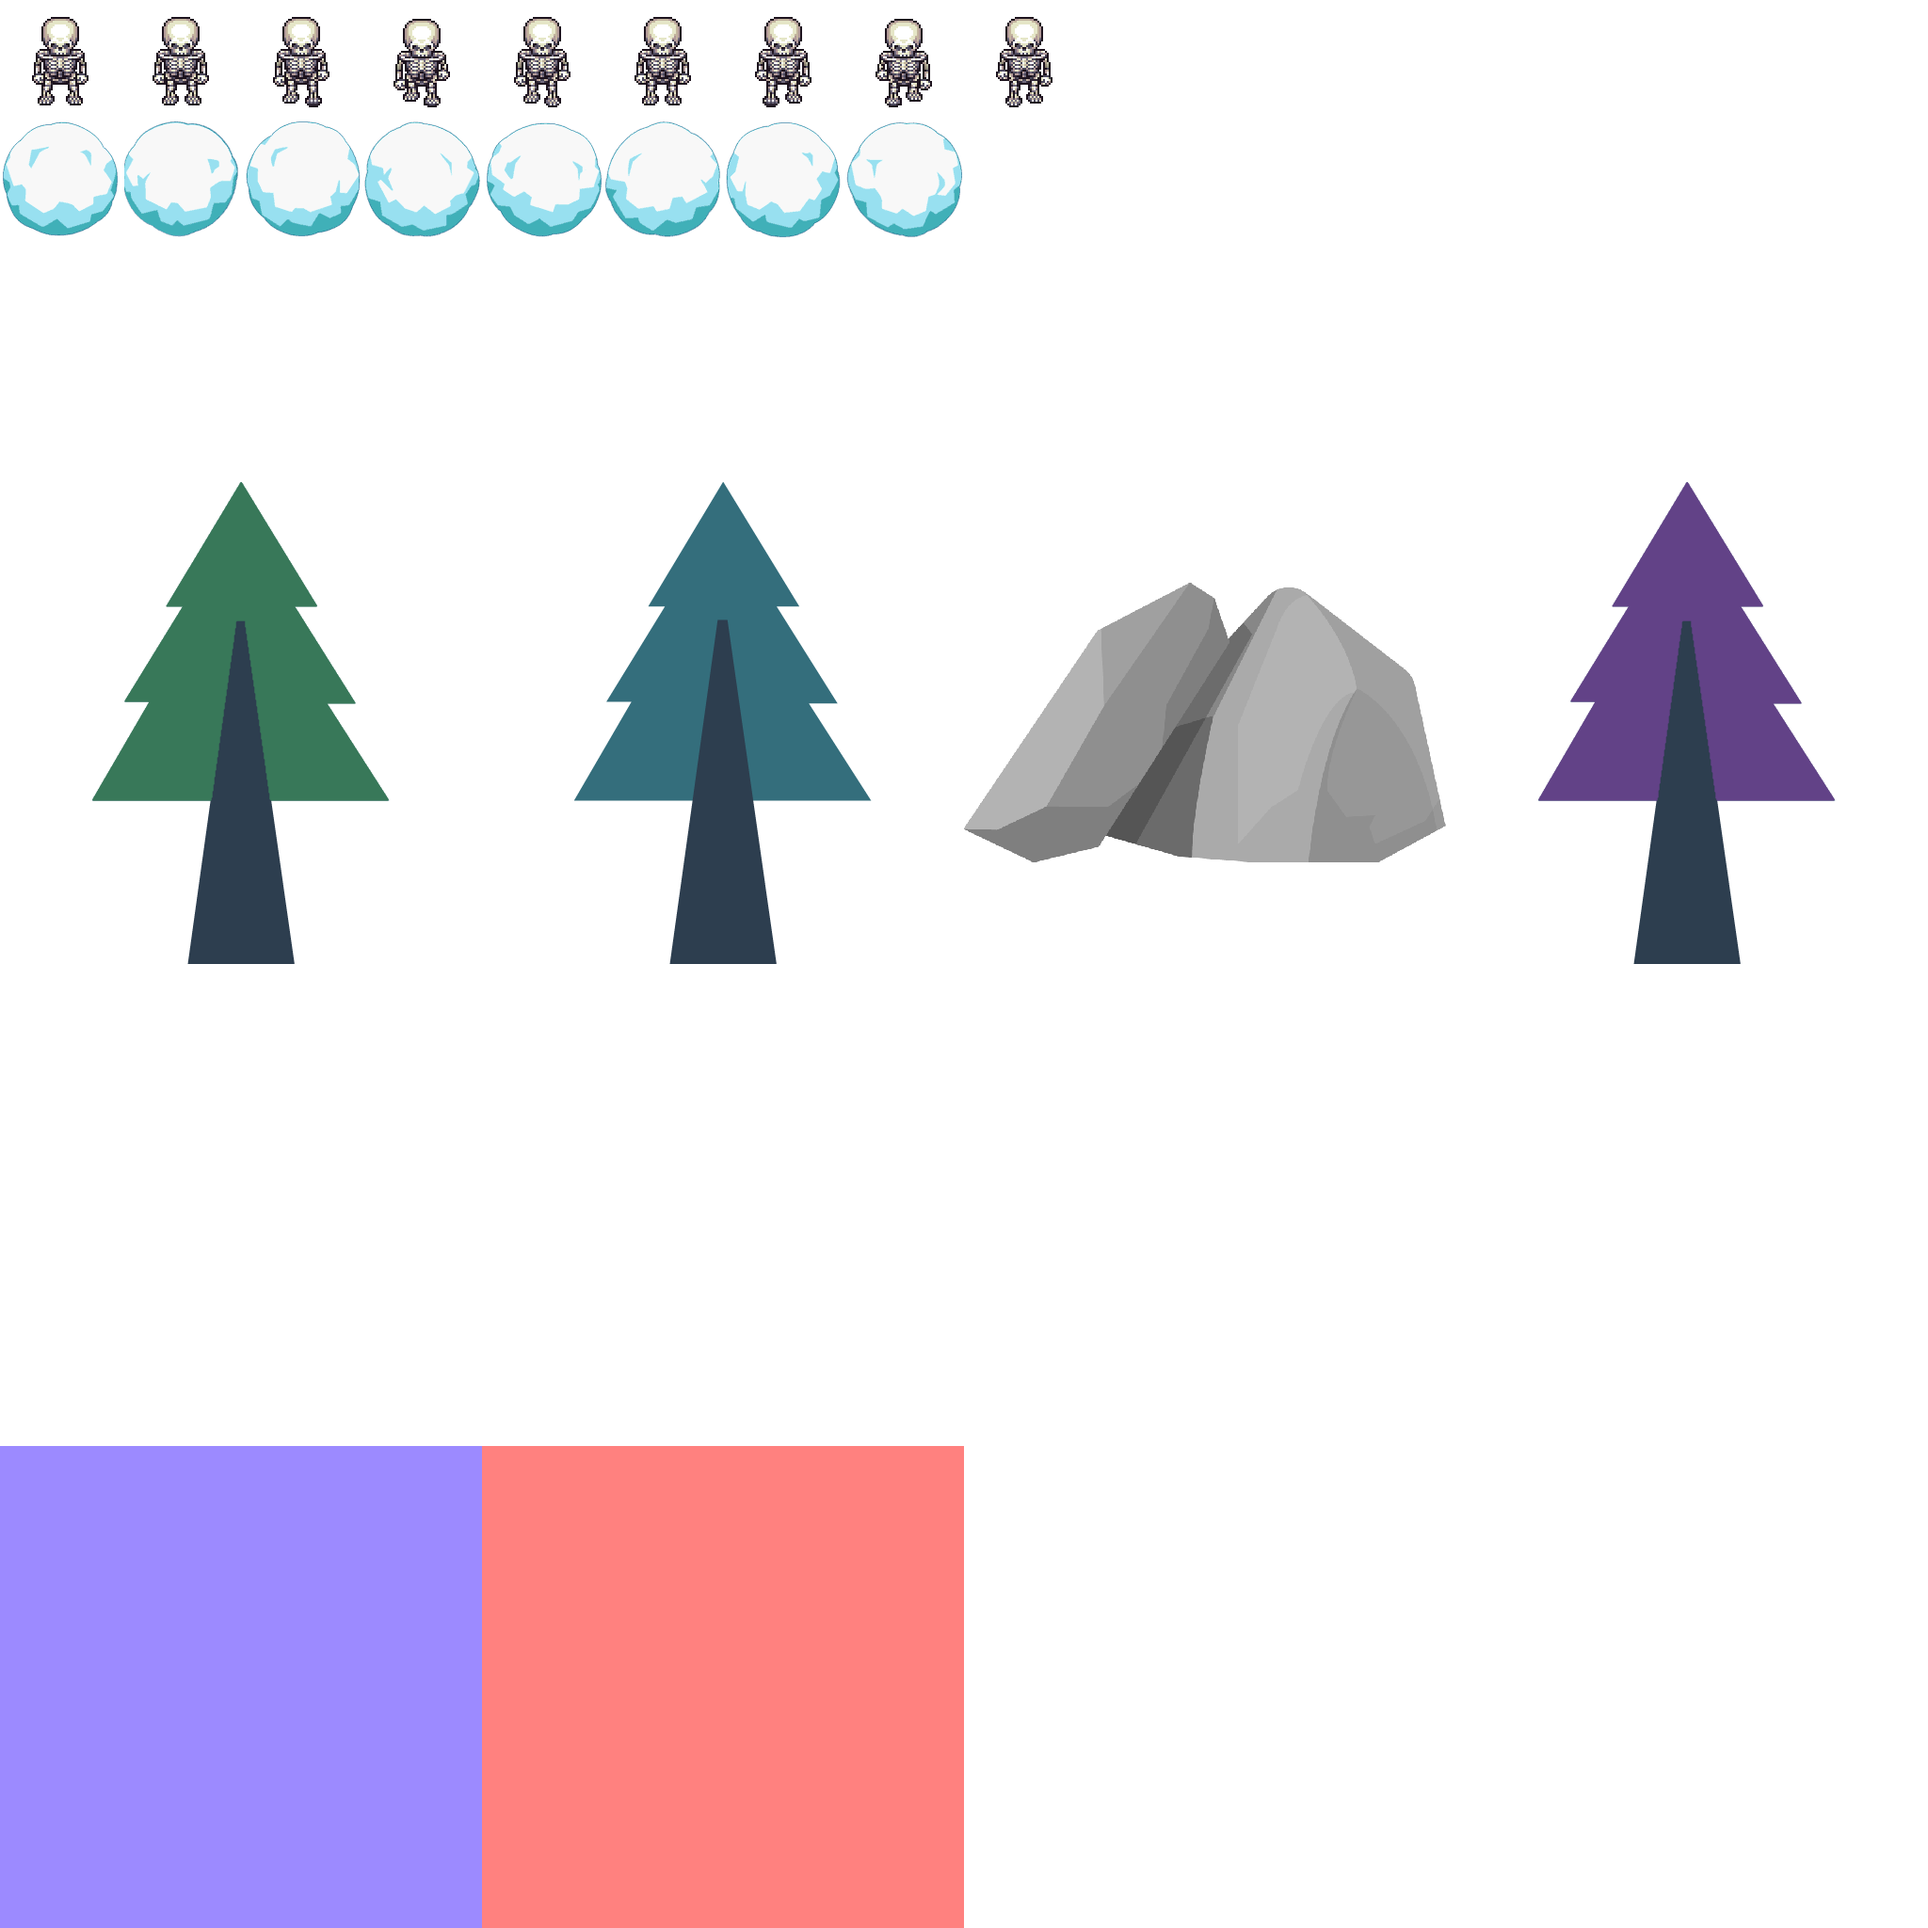
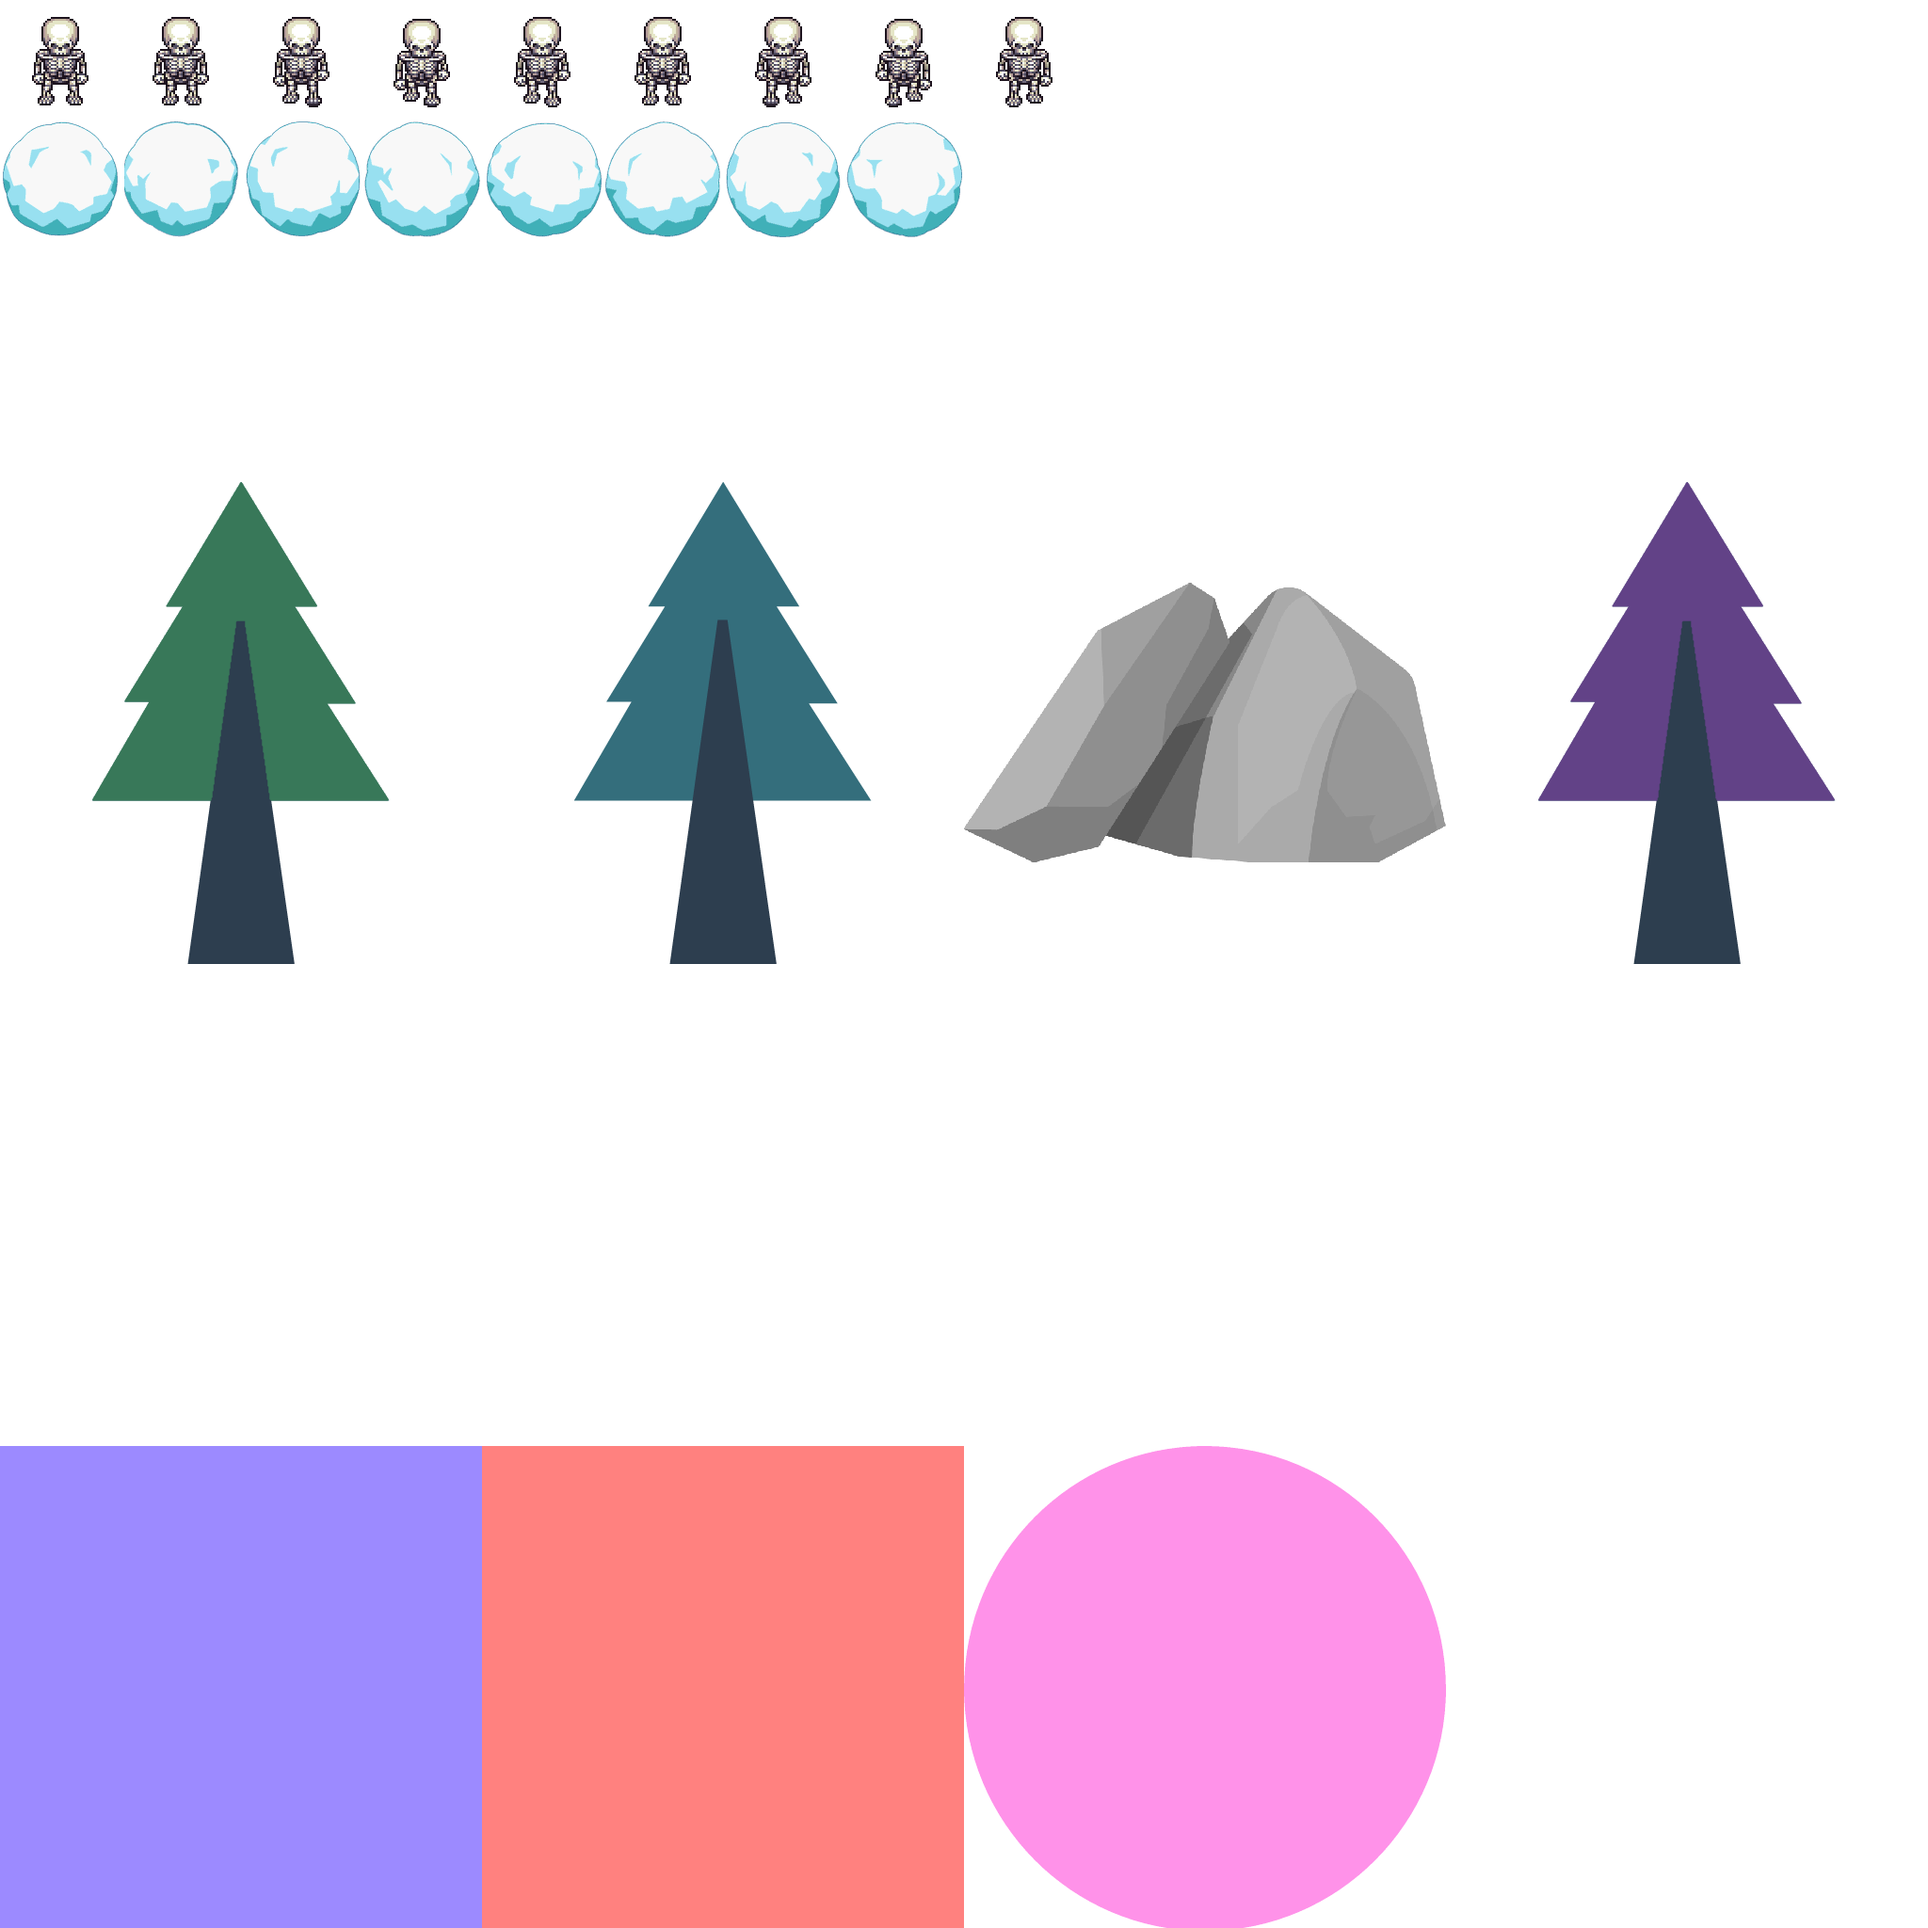
physics

Changed region(s): [[0.5, 0.75, 0.75, 1.0]]

diff --git a/TundraGame/Game/Game.h b/TundraGame/Game/Game.h
@@ -58,7 +58,7 @@ private:
             Obstacle obstacle;
             obstacle.Transform.position.x = Game::g_MapWidth * 0.5f * localPosition.x;
             obstacle.Transform.position.y = Camera::g_MinimumVisibleWorldHeight * 0.5f * localPosition.y + globalYPos;
-            obstacle.SpriteURI = AS(SpriteURI, rand() % (AS(u8, SpriteURI::COUNT) - 2));
+            obstacle.SpriteURI = AS(SpriteURI, rand() % (AS(u8, SpriteURI::COUNT) - 3));
 
             switch (obstacle.SpriteURI)
             {

diff --git a/TundraAndroidBridge/SpriteAtlas.cpp b/TundraAndroidBridge/SpriteAtlas.cpp
@@ -32,10 +32,14 @@ SpriteAtlas::SpriteArray&& initSprites()
     debug2.Offset = vec2i(512, 1536);
     debug2.Size = vec2i(512, 512);
 
+    Sprite colliderDebug;
+    colliderDebug.Offset = vec2i(1024, 1536);
+    colliderDebug.Size = vec2i(512, 512);
+
     return SpriteAtlas::SpriteArray{
         rock,
         tree1, tree2, tree3,
-        debug1, debug2
+        debug1, debug2, colliderDebug
     };
 }
 

diff --git a/TundraAndroidBridge/CircleCollider.cpp b/TundraAndroidBridge/CircleCollider.cpp
@@ -1,0 +1,13 @@
+#include "pch.h"
+#include "Game/CircleCollider.h"
+
+CircleCollider::CircleCollider(const Transform& transform)
+    : m_transform(transform)
+{
+    m_radius = 0.5f * std::max<float>(m_transform.size.x, m_transform.size.y);
+}
+
+bool CircleCollider::vs(const CircleCollider& rhs, vec2f& outNormal)
+{
+    return false;
+}

diff --git a/TundraGame/Game/CircleCollider.h b/TundraGame/Game/CircleCollider.h
@@ -1,0 +1,14 @@
+#pragma once
+
+class CircleCollider
+{
+public:
+    CircleCollider(const Transform& transform);
+
+    bool vs(const CircleCollider& rhs, vec2f& outNormal);
+
+private:
+    float m_radius;
+    const Transform& m_transform;
+};
+

diff --git a/TundraAndroidBridge/Game.cpp b/TundraAndroidBridge/Game.cpp
@@ -61,7 +61,7 @@ void Game::render()
 
 void Game::generateNextChunk()
 {
-#if 0
+#if 1
     static bool a;
 
     a = !a;

diff --git a/TundraGame/SpriteAtlas.h b/TundraGame/SpriteAtlas.h
@@ -11,6 +11,7 @@ enum class SpriteURI : u8
     Tree3,
     Debug1,
     Debug2,
+    ColliderDebug,
     COUNT
 };
 
